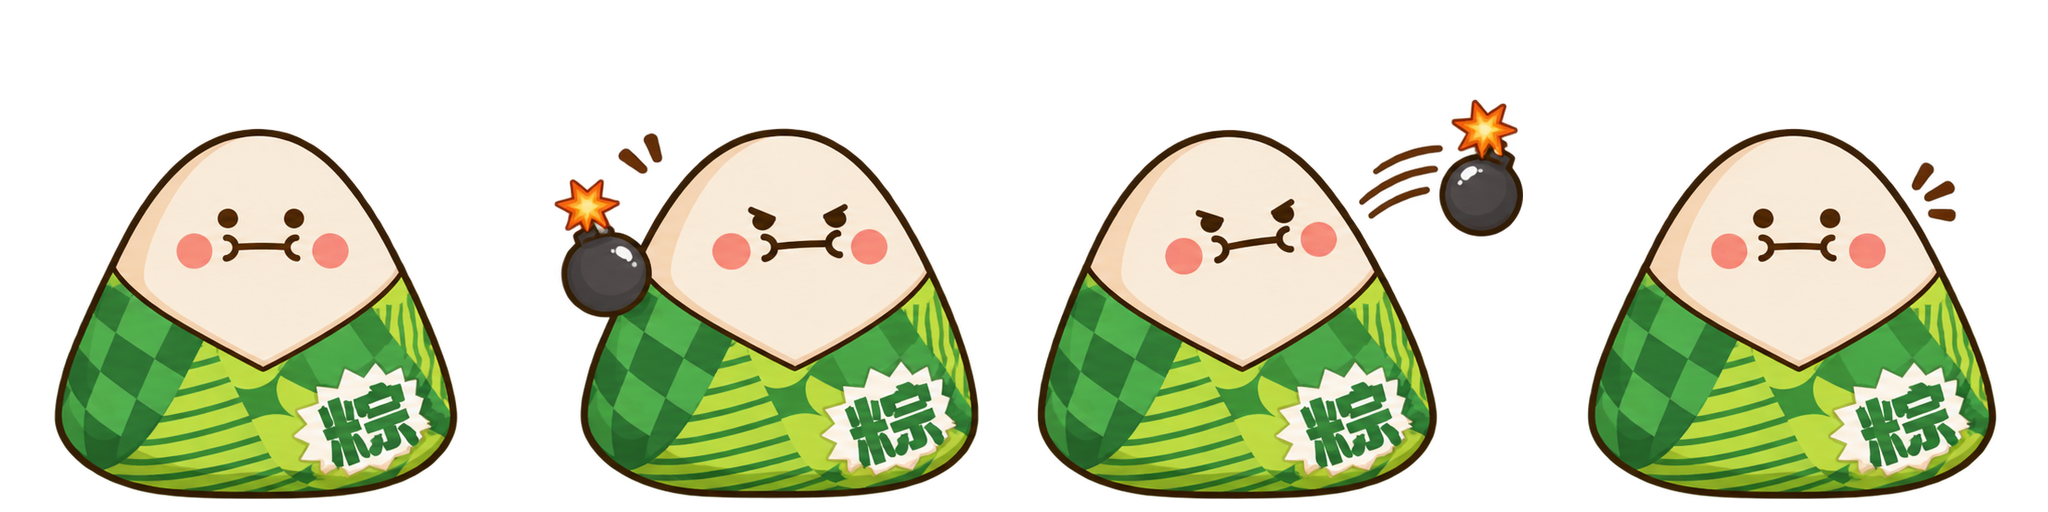
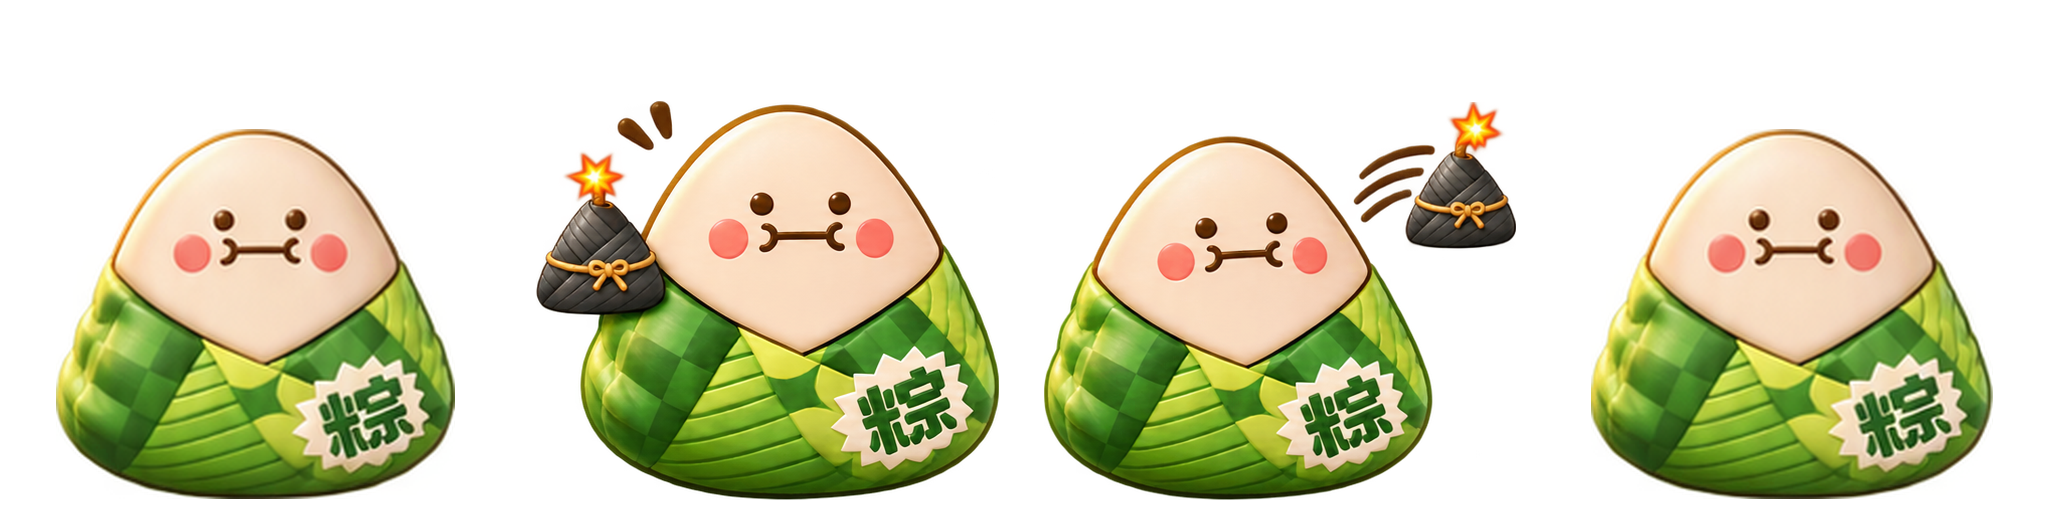
部分微调

diff --git a/game_core/special_bosses.py b/game_core/special_bosses.py
@@ -158,14 +158,18 @@ class NiuShieldShard(BossProjectile):
 
 
 class CrescentWave(BossProjectile):
-    def __init__(self, x, y, half_width=112, angle=0):
+    def __init__(self, x, y, half_width=30, angle=0):
         super().__init__(x, y, angle, 8.5, damage=1)
         self.r = max(1, round(half_width * .65))
         self.unblockable = True
 
     def draw(self, surf):
         scale = surf.scale if isinstance(surf, RenderSurface) else 1
-        image = _taiji_art(self.r, scale)
+        sprite = image_asset('bosses/zongzong.png')
+        if sprite is None:
+            super().draw(surf)
+            return
+        image = _small_zongzi_art(sprite, self.r, scale)
         image = pygame.transform.rotate(image, (config.game_ticks() - self.spawn_time) * .6 % 360)
         center = surf.point((self.x, self.y)) if isinstance(surf, RenderSurface) else (round(self.x), round(self.y))
         position = image.get_rect(center=center).topleft
@@ -176,26 +180,11 @@ class CrescentWave(BossProjectile):
 
 
 @lru_cache(maxsize=16)
-def _taiji_art(radius, scale):
-    # Draw at twice the output resolution for smooth circular edges.
-    r = max(4, round(radius * scale * 2))
-    margin = max(3, r // 8)
-    size = 2 * (r + margin)
-    cx = cy = size // 2
-    art = pygame.Surface((size, size), pygame.SRCALPHA)
-    pygame.draw.circle(art, (98, 213, 255, 55), (cx, cy), r + margin)
-    pygame.draw.circle(art, (196, 244, 255, 210), (cx, cy), r + max(2, r // 22))
-    pygame.draw.circle(art, (18, 33, 52), (cx, cy), r)
-    white = (243, 250, 247)
-    black = (18, 33, 52)
-    art.set_clip(pygame.Rect(cx, cy-r, r, 2*r))
-    pygame.draw.circle(art, white, (cx, cy), r)
-    art.set_clip(None)
-    pygame.draw.circle(art, white, (cx, cy-r//2), r//2)
-    pygame.draw.circle(art, black, (cx, cy+r//2), r//2)
-    pygame.draw.circle(art, black, (cx, cy-r//2), max(2, r//7))
-    pygame.draw.circle(art, white, (cx, cy+r//2), max(2, r//7))
-    return pygame.transform.smoothscale(art, (max(1, size // 2), max(1, size // 2)))
+def _small_zongzi_art(sprite, radius, scale):
+    sprite = sprite.subsurface(sprite.get_bounding_rect())
+    factor = max(1, round(2 * radius * scale)) / max(sprite.get_size())
+    size = tuple(max(1, round(length * factor)) for length in sprite.get_size())
+    return pygame.transform.smoothscale(sprite, size)
 
 
 class ZongBomb(BossProjectile):
@@ -218,7 +207,11 @@ class ZongBomb(BossProjectile):
     def draw(self, surf):
         center = (int(self.x), int(self.y))
         scale = surf.scale if isinstance(surf, RenderSurface) else 1
-        image = _zong_bomb_art(getattr(self, 'color', 'black'), self.r, scale)
+        color = getattr(self, 'color', 'black')
+        size = max(1, round((self.r * 2 + 28) * scale))
+        image = image_asset(f'effects/zong_bomb_{color}.png', (size, size))
+        if image is None:
+            image = _zong_bomb_art(color, self.r, scale)
         pixel_center = surf.point(center) if isinstance(surf, RenderSurface) else center
         position = image.get_rect(center=(pixel_center[0], pixel_center[1] - round(6 * scale))).topleft
         if isinstance(surf, RenderSurface):
@@ -811,7 +804,7 @@ class ZongBoss(Boss):
         tier = self.bdef.get('campaign_tier')
         if self.crescent_started_at is not None:
             width_scale = (config.GAME_AREA_RIGHT - config.GAME_AREA_LEFT) / 480
-            half_width = 112 if tier is None else round(70 * width_scale)
+            half_width = 30 if tier is None else round(30 * width_scale)
             while self.crescent_count < 4 and now >= self.crescent_started_at + 1500 + self.crescent_count * 300:
                 x, y = self.crescent_target if target_x is None or target_y is None else (target_x, target_y)
                 angle = math.degrees(math.atan2(x - self.crescent_origin, y - (self.y + self.h - 8)))

diff --git a/web/run_web.py b/web/run_web.py
@@ -449,7 +449,7 @@ class SetupHandler(BaseHTTPRequestHandler):
             self.wfile.write(payload)
 
 
-def lan_addresses(cert=None):
+def certificate_addresses(cert):
     if cert is not None:
         # CPython 的证书解析可读取已签发的 IP，避免主机名解析只返回虚拟网卡。
         try:
@@ -460,10 +460,42 @@ def lan_addresses(cert=None):
             address for kind, address in names
             if kind == 'IP Address' and ':' not in address and not address.startswith('127.')
         }
-        if signed_addresses:
-            return sorted(signed_addresses)
+        return signed_addresses
+    return set()
+
+
+def lan_addresses(cert=None):
+    if sys.platform == 'darwin':
+        try:
+            result = subprocess.run(['/sbin/ifconfig', '-a'], capture_output=True,
+                                    text=True, check=True, timeout=5)
+            addresses = set()
+            for interface in re.split(r'(?m)^(?=\S)', result.stdout):
+                if re.match(r'en\d+:', interface) and 'status: active' in interface:
+                    addresses.update(re.findall(r'(?m)^\s+inet (\S+)', interface))
+            if addresses:
+                return sorted(addresses)
+        except (OSError, subprocess.SubprocessError):
+            pass
+
+    # UDP connect selects a local address without sending a packet.
+    try:
+        with socket.socket(socket.AF_INET, socket.SOCK_DGRAM) as route:
+            route.connect(('1.1.1.1', 443))
+            return [route.getsockname()[0]]
+    except OSError:
+        pass
 
     addresses = set()
+    for address in certificate_addresses(cert):
+        try:
+            with socket.socket(socket.AF_INET, socket.SOCK_DGRAM) as probe:
+                probe.bind((address, 0))
+            addresses.add(address)
+        except OSError:
+            continue
+    if addresses:
+        return sorted(addresses)
     try:
         for result in socket.getaddrinfo(socket.gethostname(), None, socket.AF_INET):
             address = result[4][0]
@@ -525,7 +557,13 @@ def serve(host, port, tls=None, setup_port=8000, setup_certificate=None, cert=No
             setup_thread.start()
             print(f'证书安装入口本机地址：http://127.0.0.1:{setup_server.server_port}/')
         print(f'浏览器游戏本机地址：{scheme}://127.0.0.1:{server.server_port}/')
-        for address in lan_addresses(cert):
+        signed_addresses = certificate_addresses(cert)
+        for address in ([host] if host != '0.0.0.0' else lan_addresses(cert)):
+            if address.startswith('127.'):
+                continue
+            if cert is not None and address not in signed_addresses:
+                print(f'当前局域网 IP：{address}。HTTPS 证书未覆盖该地址，请重新签发证书后重启。')
+                continue
             if setup_server:
                 print(f'1. 首次安装证书 → http://{address}:{setup_server.server_port}/')
                 print(f'2. 打开游戏 → {scheme}://{address}:{server.server_port}/')

diff --git a/web/tests/test_zong_skills.py b/web/tests/test_zong_skills.py
@@ -84,6 +84,8 @@ class ZongSkillsTests(unittest.TestCase):
             self.assertEqual(boss.x, start_x)
             self.assertEqual(len(boss.crescent_projectiles), count)
         shots = boss.crescent_projectiles
+        width_scale = (config.GAME_AREA_RIGHT - config.GAME_AREA_LEFT) / 480
+        self.assertTrue(all(0 < shot.r < 25 * width_scale for shot in shots))
         self.assertGreater(shots[0].angle, 0)
         self.assertAlmostEqual(shots[1].angle, 0)
         self.assertLess(shots[2].angle, 0)
@@ -96,6 +98,14 @@ class ZongSkillsTests(unittest.TestCase):
         from game_core.special_bosses import CrescentWave
         shot = CrescentWave(200, 200, 70, angle=90)
         before = shot.rect()
+        frames = []
+        for age in (0, 150):
+            surface = pygame.Surface((440, 440), pygame.SRCALPHA)
+            with patch('game_core.config.game_ticks', return_value=shot.spawn_time + age):
+                shot.draw(surface)
+            frames.append(pygame.image.tobytes(surface, 'RGBA'))
+            self.assertTrue(surface.get_bounding_rect().collidepoint(200, 200))
+        self.assertNotEqual(*frames)
         shot.update()
         self.assertGreater(shot.x, 200)
         self.assertAlmostEqual(shot.y, 200)
@@ -118,7 +128,9 @@ class ZongSkillsTests(unittest.TestCase):
 
     def test_three_bombs_detonate_immediately_only_near_player(self):
         boss = self.make_boss()
-        bombs = boss.attack(1000, 200)
+        with patch.object(boss, '_choose_attack_skill', return_value='bomb'):
+            bombs = boss.attack(1000, 200)
+        self.assertEqual([bomb.color for bomb in bombs], ['black', 'yellow', 'red'])
         for bomb in bombs:
             with self.subTest(color=bomb.color):
                 bomb.x, bomb.y = 300, 300
@@ -132,7 +144,9 @@ class ZongSkillsTests(unittest.TestCase):
                 self.assertEqual(bomb.explode_radius, round(bomb.r * 1.5))
 
     def test_expired_bomb_does_not_proximity_detonate(self):
-        bomb = self.make_boss().attack(1000, 200)[0]
+        boss = self.make_boss()
+        with patch.object(boss, '_choose_attack_skill', return_value='bomb'):
+            bomb = boss.attack(1000, 200)[0]
         bomb.spawn_time = 1000
         with patch('game_core.config.game_ticks', return_value=7000):
             bomb.update(9000, 9000)

diff --git a/web/tests/test_web_server.py b/web/tests/test_web_server.py
@@ -17,14 +17,15 @@ from web.run_web import OfflineHandler, SetupHandler, prepare_image
 
 
 class WebServerTests(unittest.TestCase):
-    def test_lan_addresses_use_certificate_ip_when_hostname_only_resolves_virtual_adapter(self):
-        certificate = {'subjectAltName': (
-            ('DNS', 'localhost'), ('IP Address', '127.0.0.1'), ('IP Address', '172.20.10.4'),
-        )}
-        virtual_adapter = [(socket.AF_INET, 0, 0, '', ('198.18.0.1', 0))]
-        with patch.object(socket, 'getaddrinfo', return_value=virtual_adapter), \
+    def test_lan_addresses_use_current_network_instead_of_stale_certificate_ip(self):
+        certificate = {'subjectAltName': (('IP Address', '172.20.10.3'),)}
+        interfaces = ('en0: flags=1<UP>\n\tinet 192.168.1.10 netmask 0xffffff00\n'
+                      '\tstatus: active\nutun8: flags=1<UP>\n\tinet 172.29.0.1\n')
+        with patch.object(run_web.sys, 'platform', 'darwin'), \
+                patch.object(run_web.subprocess, 'run') as ifconfig, \
                 patch.object(ssl._ssl, '_test_decode_cert', return_value=certificate):
-            self.assertEqual(run_web.lan_addresses(Path('cert.pem')), ['172.20.10.4'])
+            ifconfig.return_value.stdout = interfaces
+            self.assertEqual(run_web.lan_addresses(Path('cert.pem')), ['192.168.1.10'])
 
     @unittest.skipUnless(os.name == 'nt', 'Windows locks the current directory')
     def test_prepare_sources_reuses_staging_held_open_on_windows(self):
